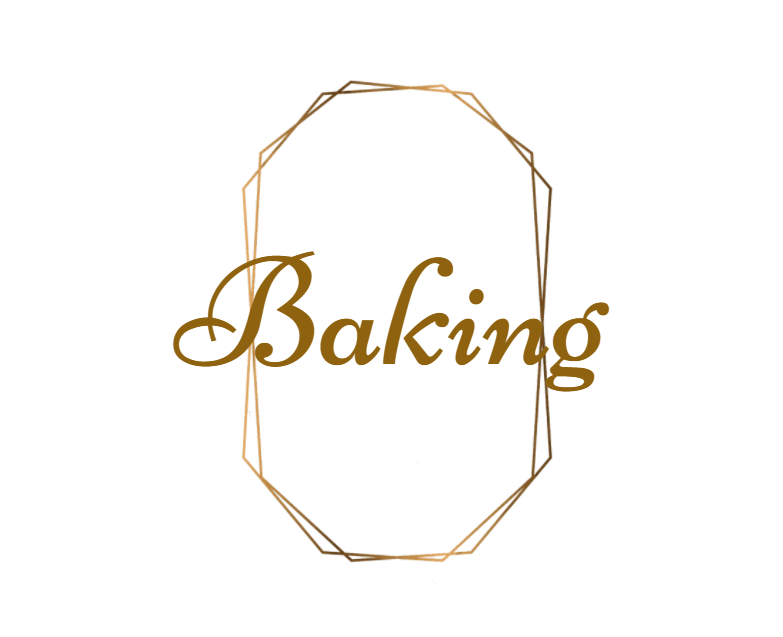
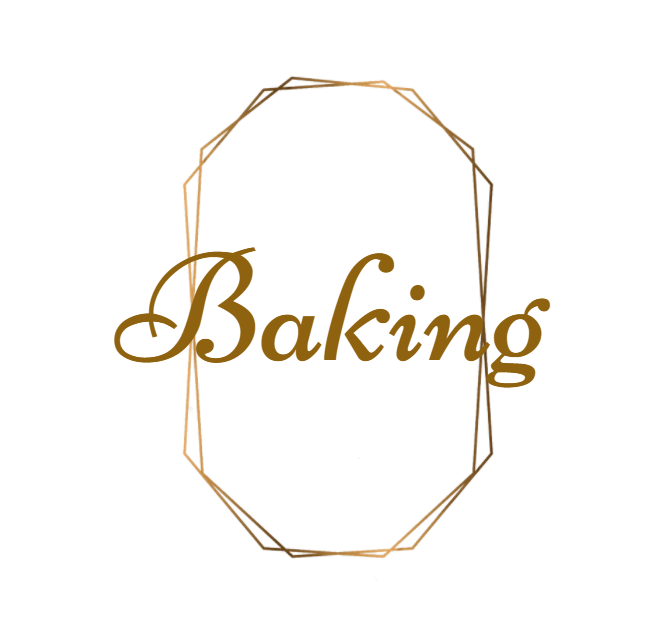
update

Changed region(s): [[0.1562, 0.1203, 0.8125, 0.9019]]

diff --git a/baking.html b/baking.html
@@ -37,7 +37,7 @@
                         </div>
                 </li>
                 <li class="nav-item ">
-                    <a class="nav-link text-dark" href="climbing.html">Baking</a>
+                    <a class="nav-link text-dark" href="baking.html">Baking</a>
                 </li>
                 <li class="nav-item ">
                     <a class="nav-link text-dark" href="climbing.html">Climbing</a>
@@ -49,13 +49,13 @@
     <div class = "container">
         <div class = "row" style ="align-items:center;">
             <div class="col-md-3 order-2 order-md-1">
-                <a href="#"><img src ="images/Baking/Banner/Gallery_Square.PNG" style = "text-align:center;" class="img-fluid"></a>
+                <a href="#"><img src ="images/Baking/Banner/Final-Gallery1.PNG" style = "text-align:center;" class="img-fluid mx-auto d-block"></a>
             </div>
             <div class="col-md-6 order-1 order-md-2">
-               <img src ="images/Baking/Banner/BakingIcon.PNG" style = "text-align:center;margin-top:30px" class="img-fluid">
+               <img src ="images/Baking/Banner/BakingIcon.PNG" style = "text-align:center;" id="bakingbanner" class="img-fluid mx-auto d-block">
             </div>
             <div class="col-md-3 order-3 order-md-3">
-                <a href="#"><img src ="images/Baking/Banner/Recipe_Square.PNG" style = "text-align:center;" class="img-fluid"></a>
+                <a href="#"><img src ="images/Baking/Banner/Final-Recipe1.PNG" style = "text-align:center;" class="img-fluid mx-auto d-block"></a>
             </div>
         </div>
     </div>
@@ -63,7 +63,14 @@
     <!--<div class="container text-center my-3 bg">-->
     <div class="container text-center my-3">
         <!--Featured Banner-->
-        <img src = "images/Baking/Banner/Featured.PNG" style = "width:20%"><br><br>
+        <div class = row>
+            <div class = "col-md-3"></div>
+            <div class = "col-md-6">
+                <img src = "images/Baking/Banner/Featured.PNG" style = "width:50%"><br><br>
+            </div>
+            <div class = "col-md-3"></div>
+        </div>
+        <!--Featured Recipe Gallery-->
         <div class="row mx-auto my-auto">
             <div id="recipeCarousel" class="carousel slide w-100" data-ride="carousel">
                 <div class="carousel-inner w-100" role="listbox">

diff --git a/index.html b/index.html
@@ -35,14 +35,8 @@
                             <a class="dropdown-item" href="humidity.html">Projects</a>
                         </div>
                 </li>
-                <li class="nav-item dropdown">
-                    <a class="nav-link dropdown-toggle text-dark" href="baking.html" id="navbarDropdown" role="button" data-toggle="dropdown" aria-haspopup="true" aria-expanded="false">
-                        Baking
-                        </a>
-                        <div class="dropdown-menu text-dark" aria-labelledby="navbarDropdown">
-                            <a class="dropdown-item " href="baking.html">Gallery</a>
-                            <a class="dropdown-item" href="baking.html">Reciepe</a>
-                        </div>
+                <li class="nav-item ">
+                    <a class="nav-link text-dark" href="baking.html">Baking</a>
                 </li>
                 <li class="nav-item ">
                     <a class="nav-link text-dark" href="climbing.html">Climbing</a>

diff --git a/aboutme.html b/aboutme.html
@@ -36,7 +36,7 @@
                         </div>
                 </li>
                 <li class="nav-item ">
-                    <a class="nav-link text-dark" href="climbing.html">Baking</a>
+                    <a class="nav-link text-dark" href="baking.html">Baking</a>
                 </li>
                 <li class="nav-item ">
                     <a class="nav-link text-dark" href="climbing.html">Climbing</a>

diff --git a/acknowledgement.html b/acknowledgement.html
@@ -37,7 +37,7 @@
                         </div>
                 </li>
                 <li class="nav-item ">
-                    <a class="nav-link text-dark" href="climbing.html">Baking</a>
+                    <a class="nav-link text-dark" href="baking.html">Baking</a>
                 </li>
                 <li class="nav-item ">
                     <a class="nav-link text-dark" href="climbing.html">Climbing</a>

diff --git a/climbing.html b/climbing.html
@@ -36,7 +36,7 @@
                         </div>
                 </li>
                 <li class="nav-item ">
-                    <a class="nav-link text-dark" href="climbing.html">Baking</a>
+                    <a class="nav-link text-dark" href="baking.html">Baking</a>
                 </li>
                 <li class="nav-item ">
                     <a class="nav-link text-dark" href="climbing.html">Climbing</a>

diff --git a/work.html b/work.html
@@ -37,7 +37,7 @@
                         </div>
                 </li>
                 <li class="nav-item ">
-                    <a class="nav-link text-dark" href="climbing.html">Baking</a>
+                    <a class="nav-link text-dark" href="baking.html">Baking</a>
                 </li>
                 <li class="nav-item ">
                     <a class="nav-link text-dark" href="climbing.html">Climbing</a>

diff --git a/style.css b/style.css
@@ -110,8 +110,11 @@ html {
         margin-top:15px;
         margin-bottom:15px;
     }
+    #bakingbanner{
+        height: 510px;
+        margin-top: 110px;
+    }
 }
-
 .carousel-inner .carousel-item.active,
 .carousel-inner .carousel-item-next,
 .carousel-inner .carousel-item-prev {
